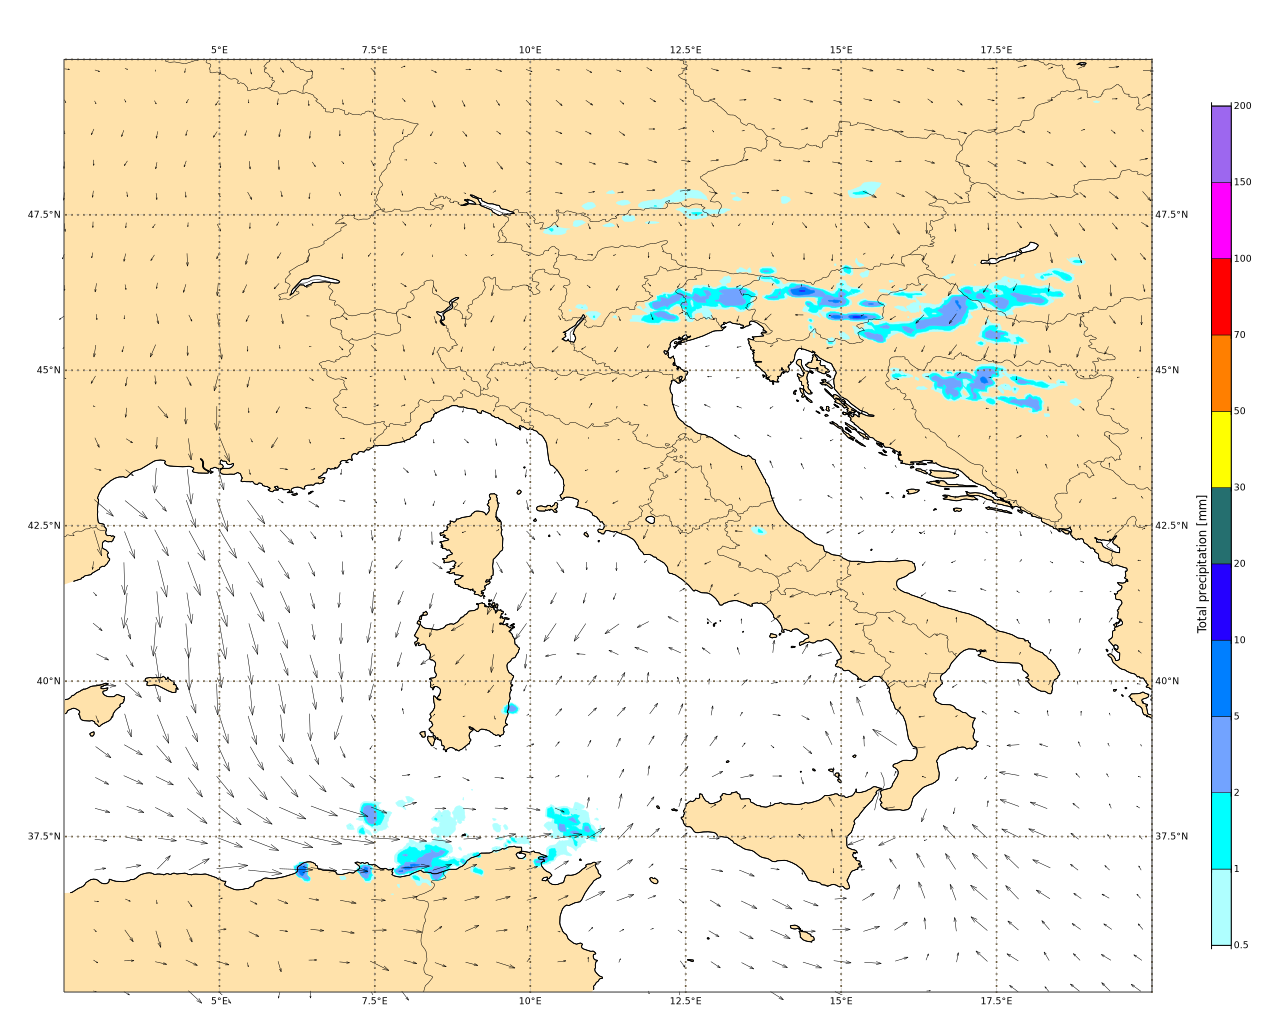
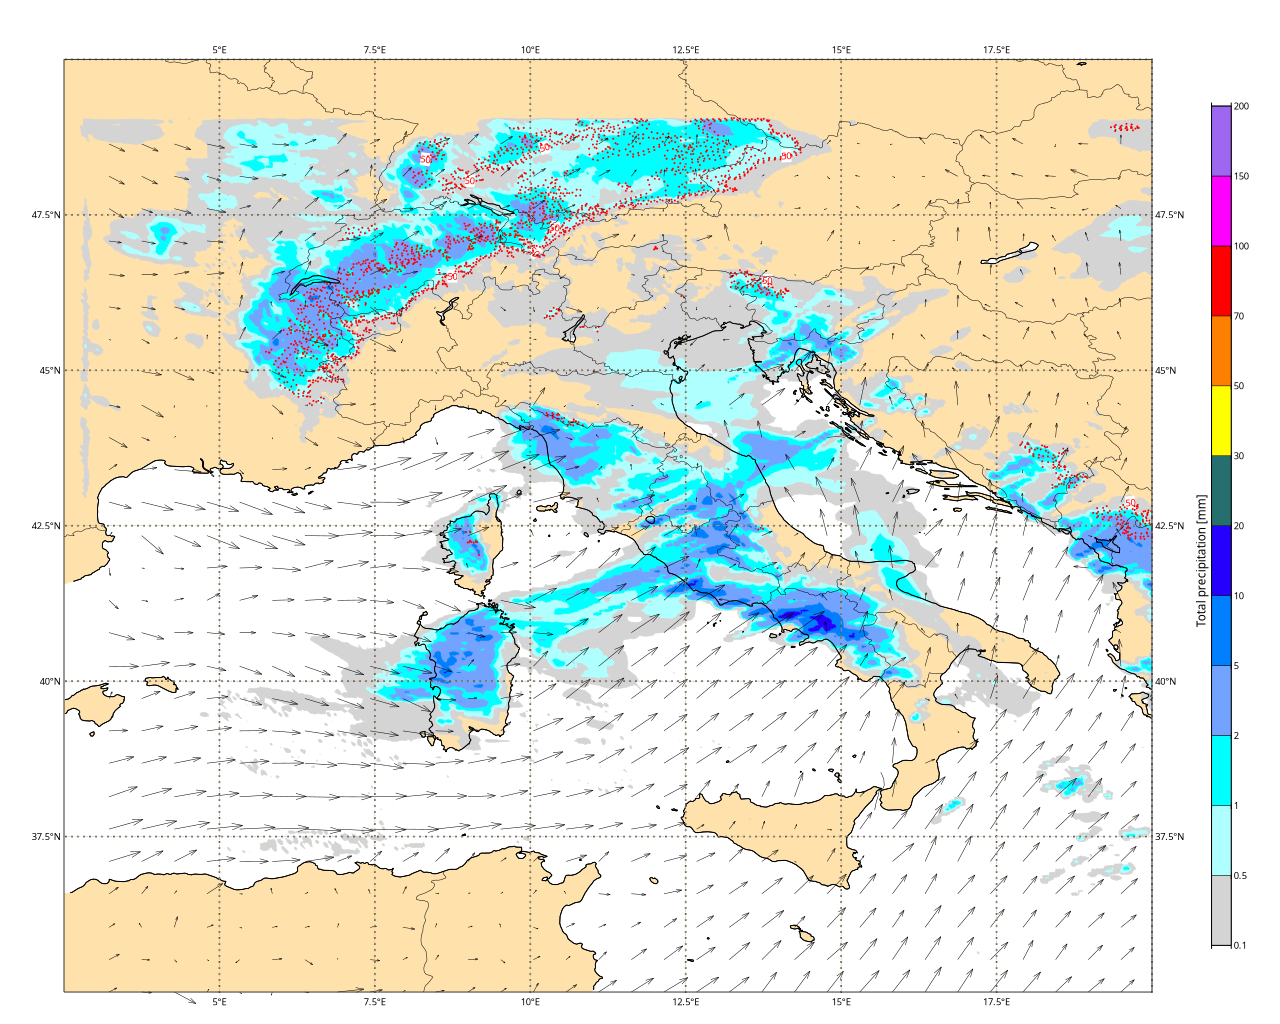
updated contouring for total precipitation

diff --git a/doc/prodotti/README.md b/doc/prodotti/README.md
@@ -44,7 +44,7 @@ gdal_translate -of Gtiff -a_srs 'EPSG:3857' -a_ullr 389618.2177764575 6446275.84
 | `ztw850`| Geopotenziale, temperatura e vento a 850 hPa | [ztw850.png](ztw850.png)               | [ztw850.md](../recipes/standalone/ztw850.md) |
 | `ztw925`| Geopotenziale, temperatura e vento a 925 hPa | [ztw925.png](ztw925.png)               | [ztw925.md](../recipes/standalone/ztw925.md) |
 | `z500t850`| Geopotenziale a 500 hPa, temperatura a 850 hPa | [z500t850.png](z500t850.png)       | [z500t850.md](../recipes/standalone/z500t850.md) |
-| `tp1h`    | Precipitazione cumulata su 1h con frazione nevosa e vento a 10m || [tp1h.png](tp1h.png) | [tp1h.md](../recipes/standalone/tp1h.md)   |
+| `tp1h`    | Precipitazione cumulata su 1h con frazione nevosa e vento a 10m | [tp1h.png](tp1h.png) | [tp1h.md](../recipes/standalone/tp1h.md)   |
 | `tp3h` `tp6h` `tp12h` `tp24h` | Precipitazione totale cumulata su 3/6/12/24h con frazione nevosa  | [tp24h.png](tp24h.png) | [tp3h.md](../recipes/standalone/tp3h.md) [tp6h.md](../recipes/standalone/tp6h.md) [tp12h.md](../recipes/standalone/tp12h.md) [tp24h.md](../recipes/standalone/tp24h.md) |
 | `cp3h` `cp6h` `cp12h` `cp24h` | Precipitazione convettiva cumulata su 3/6/12/24h | [cp24h.png](cp24h.png)  |  [cp3h.md](../recipes/cp3h.md) [cp6h.md](../recipes/cp6h.md) [cp12h.md](../recipes/cp12h.md) [cp24h.md](../recipes/cp24h.md) |
 | `sf1h` `sf3h` `sf6h` `sf12h` `sf24h` | Precipitazione nevosa totale cumulata su 1/3/6/12/24h     | [sf24h.png](sf24h.png)  |  [sf1h.md](../recipes/sf1h.md) [sf3h.md](../recipes/sf3h.md) [sf6h.md](../recipes/sf6h.md) [sf12h.md](../recipes/sf12h.md) [sf24h.md](../recipes/sf24h.md) |

diff --git a/doc/recipes/standalone/tp1h.md b/doc/recipes/standalone/tp1h.md
@@ -132,8 +132,9 @@ With arguments:
     "contour_shade": "on",
     "contour_shade_colour_method": "list",
     "contour_shade_method": "area_fill",
-    "contour_shade_min_level": 0.5,
+    "contour_shade_min_level": 0.1,
     "contour_level_list": [
+      0.1,
       0.5,
       1.0,
       2.0,
@@ -148,6 +149,7 @@ With arguments:
       200.0
     ],
     "contour_shade_colour_list": [
+      "rgb(0.83,0.83,0.83)",
       "rgb( 0.686,1.000,1.000)",
       "rgb( 0.000,1.000,1.000)",
       "rgb( 0.447,0.639,1.000)",

diff --git a/doc/recipes/standalone/tp3h.md b/doc/recipes/standalone/tp3h.md
@@ -98,8 +98,9 @@ With arguments:
     "contour_shade": "on",
     "contour_shade_colour_method": "list",
     "contour_shade_method": "area_fill",
-    "contour_shade_min_level": 0.5,
+    "contour_shade_min_level": 0.1,
     "contour_level_list": [
+      0.1,
       0.5,
       1.0,
       2.0,
@@ -114,6 +115,7 @@ With arguments:
       200.0
     ],
     "contour_shade_colour_list": [
+      "rgb(0.83,0.83,0.83)",
       "rgb( 0.686,1.000,1.000)",
       "rgb( 0.000,1.000,1.000)",
       "rgb( 0.447,0.639,1.000)",

diff --git a/doc/recipes/tiles/tp1h.md b/doc/recipes/tiles/tp1h.md
@@ -67,8 +67,9 @@ With arguments:
     "contour_shade": "on",
     "contour_shade_colour_method": "list",
     "contour_shade_method": "area_fill",
-    "contour_shade_min_level": 0.5,
+    "contour_shade_min_level": 0.1,
     "contour_level_list": [
+      0.1,
       0.5,
       1.0,
       2.0,
@@ -83,6 +84,7 @@ With arguments:
       200.0
     ],
     "contour_shade_colour_list": [
+      "rgb(0.83,0.83,0.83)",
       "rgb( 0.686,1.000,1.000)",
       "rgb( 0.000,1.000,1.000)",
       "rgb( 0.447,0.639,1.000)",

diff --git a/doc/recipes/tiles/tp3h.md b/doc/recipes/tiles/tp3h.md
@@ -67,8 +67,9 @@ With arguments:
     "contour_shade": "on",
     "contour_shade_colour_method": "list",
     "contour_shade_method": "area_fill",
-    "contour_shade_min_level": 0.5,
+    "contour_shade_min_level": 0.1,
     "contour_level_list": [
+      0.1,
       0.5,
       1.0,
       2.0,
@@ -83,6 +84,7 @@ With arguments:
       200.0
     ],
     "contour_shade_colour_list": [
+      "rgb(0.83,0.83,0.83)",
       "rgb( 0.686,1.000,1.000)",
       "rgb( 0.000,1.000,1.000)",
       "rgb( 0.447,0.639,1.000)",

diff --git a/doc/recipes/standalone/tp12h.md b/doc/recipes/standalone/tp12h.md
@@ -100,6 +100,7 @@ With arguments:
     "contour_shade_method": "area_fill",
     "contour_shade_min_level": 0.5,
     "contour_level_list": [
+      0.5,
       1.0,
       2.0,
       5.0,
@@ -115,6 +116,7 @@ With arguments:
       500.0
     ],
     "contour_shade_colour_list": [
+      "rgb(0.83,0.83,0.83)",
       "rgb( 0.686,1.000,1.000)",
       "rgb( 0.000,1.000,1.000)",
       "rgb( 0.447,0.639,1.000)",

diff --git a/doc/recipes/standalone/tp24h.md b/doc/recipes/standalone/tp24h.md
@@ -100,6 +100,7 @@ With arguments:
     "contour_shade_method": "area_fill",
     "contour_shade_min_level": 0.5,
     "contour_level_list": [
+      0.5,
       1.0,
       2.0,
       5.0,
@@ -115,6 +116,7 @@ With arguments:
       500.0
     ],
     "contour_shade_colour_list": [
+      "rgb(0.83,0.83,0.83)",
       "rgb( 0.686,1.000,1.000)",
       "rgb( 0.000,1.000,1.000)",
       "rgb( 0.447,0.639,1.000)",

diff --git a/doc/recipes/standalone/tp6h.md b/doc/recipes/standalone/tp6h.md
@@ -100,6 +100,7 @@ With arguments:
     "contour_shade_method": "area_fill",
     "contour_shade_min_level": 0.5,
     "contour_level_list": [
+      0.5,
       1.0,
       2.0,
       5.0,
@@ -115,6 +116,7 @@ With arguments:
       500.0
     ],
     "contour_shade_colour_list": [
+      "rgb(0.83,0.83,0.83)",
       "rgb( 0.686,1.000,1.000)",
       "rgb( 0.000,1.000,1.000)",
       "rgb( 0.447,0.639,1.000)",

diff --git a/doc/recipes/tiles/tp12h.md b/doc/recipes/tiles/tp12h.md
@@ -69,6 +69,7 @@ With arguments:
     "contour_shade_method": "area_fill",
     "contour_shade_min_level": 0.5,
     "contour_level_list": [
+      0.5,
       1.0,
       2.0,
       5.0,
@@ -84,6 +85,7 @@ With arguments:
       500.0
     ],
     "contour_shade_colour_list": [
+      "rgb(0.83,0.83,0.83)",
       "rgb( 0.686,1.000,1.000)",
       "rgb( 0.000,1.000,1.000)",
       "rgb( 0.447,0.639,1.000)",

diff --git a/doc/recipes/tiles/tp24h.md b/doc/recipes/tiles/tp24h.md
@@ -69,6 +69,7 @@ With arguments:
     "contour_shade_method": "area_fill",
     "contour_shade_min_level": 0.5,
     "contour_level_list": [
+      0.5,
       1.0,
       2.0,
       5.0,
@@ -84,6 +85,7 @@ With arguments:
       500.0
     ],
     "contour_shade_colour_list": [
+      "rgb(0.83,0.83,0.83)",
       "rgb( 0.686,1.000,1.000)",
       "rgb( 0.000,1.000,1.000)",
       "rgb( 0.447,0.639,1.000)",

diff --git a/doc/recipes/tiles/tp6h.md b/doc/recipes/tiles/tp6h.md
@@ -69,6 +69,7 @@ With arguments:
     "contour_shade_method": "area_fill",
     "contour_shade_min_level": 0.5,
     "contour_level_list": [
+      0.5,
       1.0,
       2.0,
       5.0,
@@ -84,6 +85,7 @@ With arguments:
       500.0
     ],
     "contour_shade_colour_list": [
+      "rgb(0.83,0.83,0.83)",
       "rgb( 0.686,1.000,1.000)",
       "rgb( 0.000,1.000,1.000)",
       "rgb( 0.447,0.639,1.000)",
